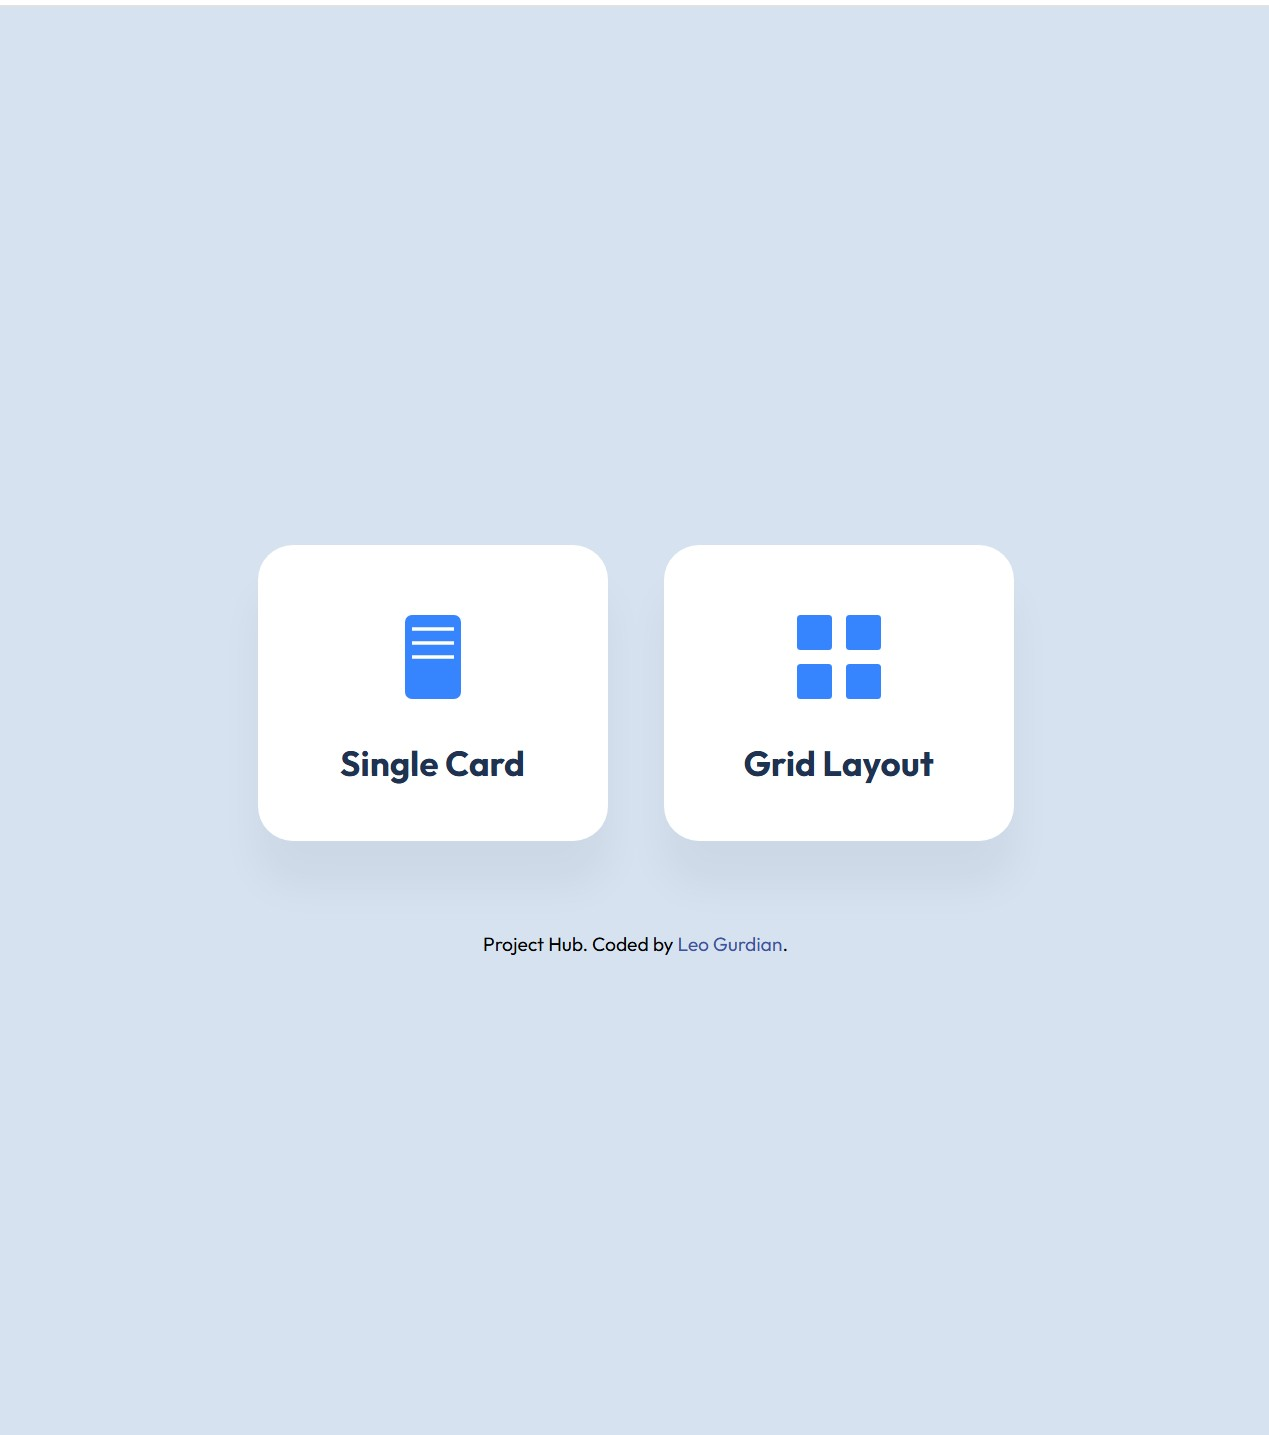
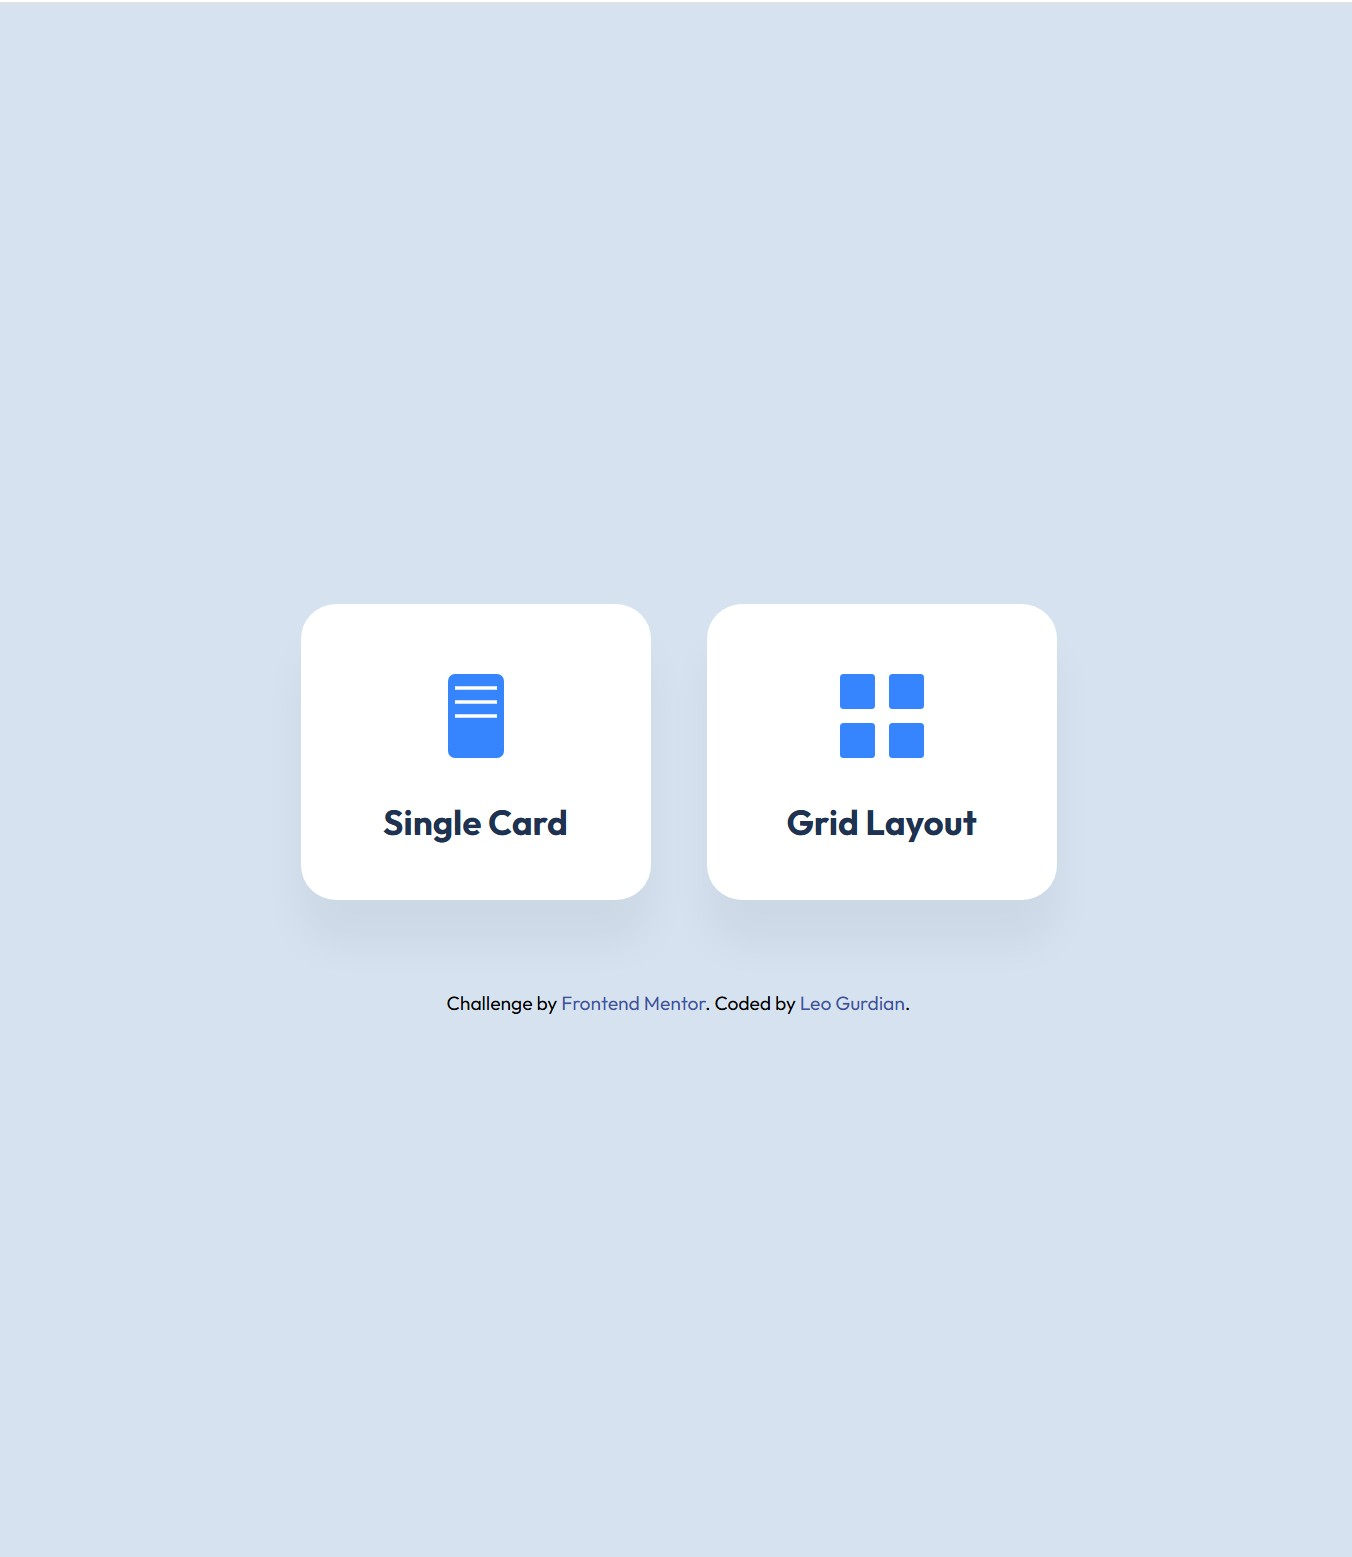
Footer, landing screenshot updated

diff --git a/index.html b/index.html
@@ -30,7 +30,8 @@
   </main>
   
   <footer class="attribution">
-    Project Hub. Coded by <a href="#">Leo Gurdian</a>.
+    Challenge by <a href="https://www.frontendmentor.io/challenges/qr-code-component-iux_sIO_H" target="_blank" rel="noopener noreferrer">Frontend Mentor</a>. 
+    Coded by <a href="#">Leo Gurdian</a>.
   </footer>
 
 </body>
